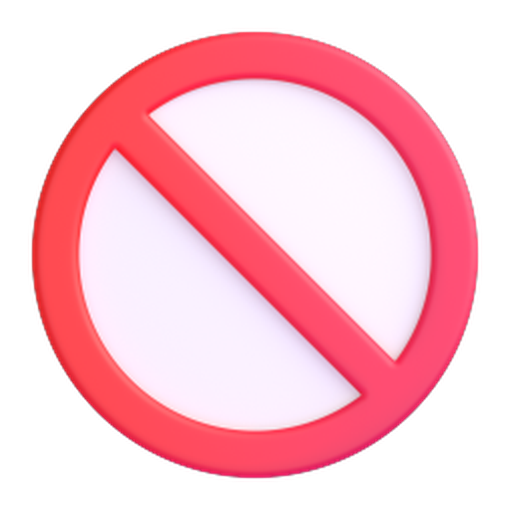
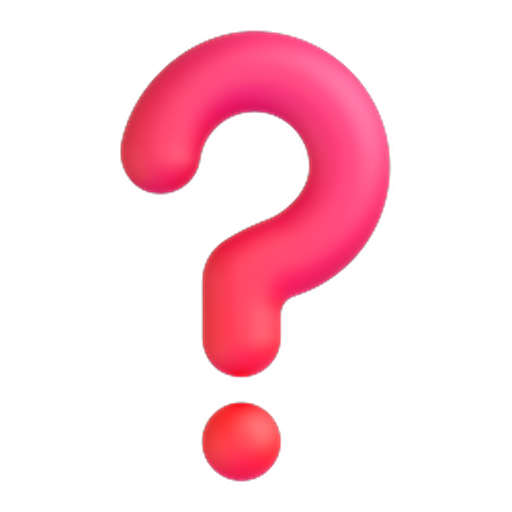
Disambiguate plaque subjects: panel, question, warn layout
Preview panel uses framed picture (not loupe). Question uses red
question mark (not prohibited). Search keeps magnifier. Warn
composite is trash | warning with a clear gap so the bin stays visible.

diff --git a/src/components/BndzPlaque.tsx b/src/components/BndzPlaque.tsx
@@ -37,10 +37,12 @@ const PLAQUE_SRC: Record<BndzPlaqueTone, ThemePair> = {
   // Destructive / permanent-delete modals — PNG glass alert
   error: { dark: '/plaques/fm-modal-error-dark.png', light: '/plaques/fm-modal-error-light.png' },
   brand: { dark: '/plaques/brand-mark.png', light: '/plaques/brand-mark.png' },
+  // Conflict / help — Fluent red question mark (not prohibited/deny)
   question: { dark: '/plaques/fm-question-dark.png', light: '/plaques/fm-question-light.png' },
-  // Preview Inspector idle — Fluent magnifier (true alpha)
+  // Preview Inspector idle — Fluent framed picture (distinct from search loupe)
   panel: { dark: '/plaques/fm-glass-panel-dark.png', light: '/plaques/fm-glass-panel-light.png' },
   folder: { dark: '/plaques/fm-folder-empty-dark.png', light: '/plaques/fm-folder-empty-light.png' },
+  // Fast Search empty — Fluent magnifier only
   search: { dark: '/plaques/fm-search-empty-dark.png', light: '/plaques/fm-search-empty-light.png' },
   tabs: { dark: '/plaques/tab-empty.svg', light: '/plaques/tab-empty.svg' },
   transfer: { dark: '/plaques/fm-transfer-dark.svg', light: '/plaques/fm-transfer-light.svg' },

diff --git a/BNDZBackend/Assets/ui/plaques/QUALITY.md b/BNDZBackend/Assets/ui/plaques/QUALITY.md
@@ -122,3 +122,13 @@ AI keepers → `candidates/superseded-ai-gen/`. Raw extracts → `candidates/flu
 | Question / access | `fm-question-*.png` | Fluent Prohibited |
 
 Gravity SVGs → `candidates/superseded-gravity-empties/`.
+
+### Follow-up (2026-09-18) — subject disambiguation
+
+| Tone | Keeper subject | Notes |
+|------|----------------|-------|
+| panel | Fluent Framed picture | Preview idle — **not** a loupe |
+| search | Fluent Magnifier | Search empty only |
+| question | Fluent Red question mark | Help/conflict — **not** prohibited/deny |
+| warn | Wastebasket + Warning **side-by-side** | Trash fully readable; warning is companion badge |
+| error | Warning alone | Permanent delete — no trash |

diff --git a/public/plaques/QUALITY.md b/public/plaques/QUALITY.md
@@ -122,3 +122,13 @@ AI keepers → `candidates/superseded-ai-gen/`. Raw extracts → `candidates/flu
 | Question / access | `fm-question-*.png` | Fluent Prohibited |
 
 Gravity SVGs → `candidates/superseded-gravity-empties/`.
+
+### Follow-up (2026-09-18) — subject disambiguation
+
+| Tone | Keeper subject | Notes |
+|------|----------------|-------|
+| panel | Fluent Framed picture | Preview idle — **not** a loupe |
+| search | Fluent Magnifier | Search empty only |
+| question | Fluent Red question mark | Help/conflict — **not** prohibited/deny |
+| warn | Wastebasket + Warning **side-by-side** | Trash fully readable; warning is companion badge |
+| error | Warning alone | Permanent delete — no trash |
